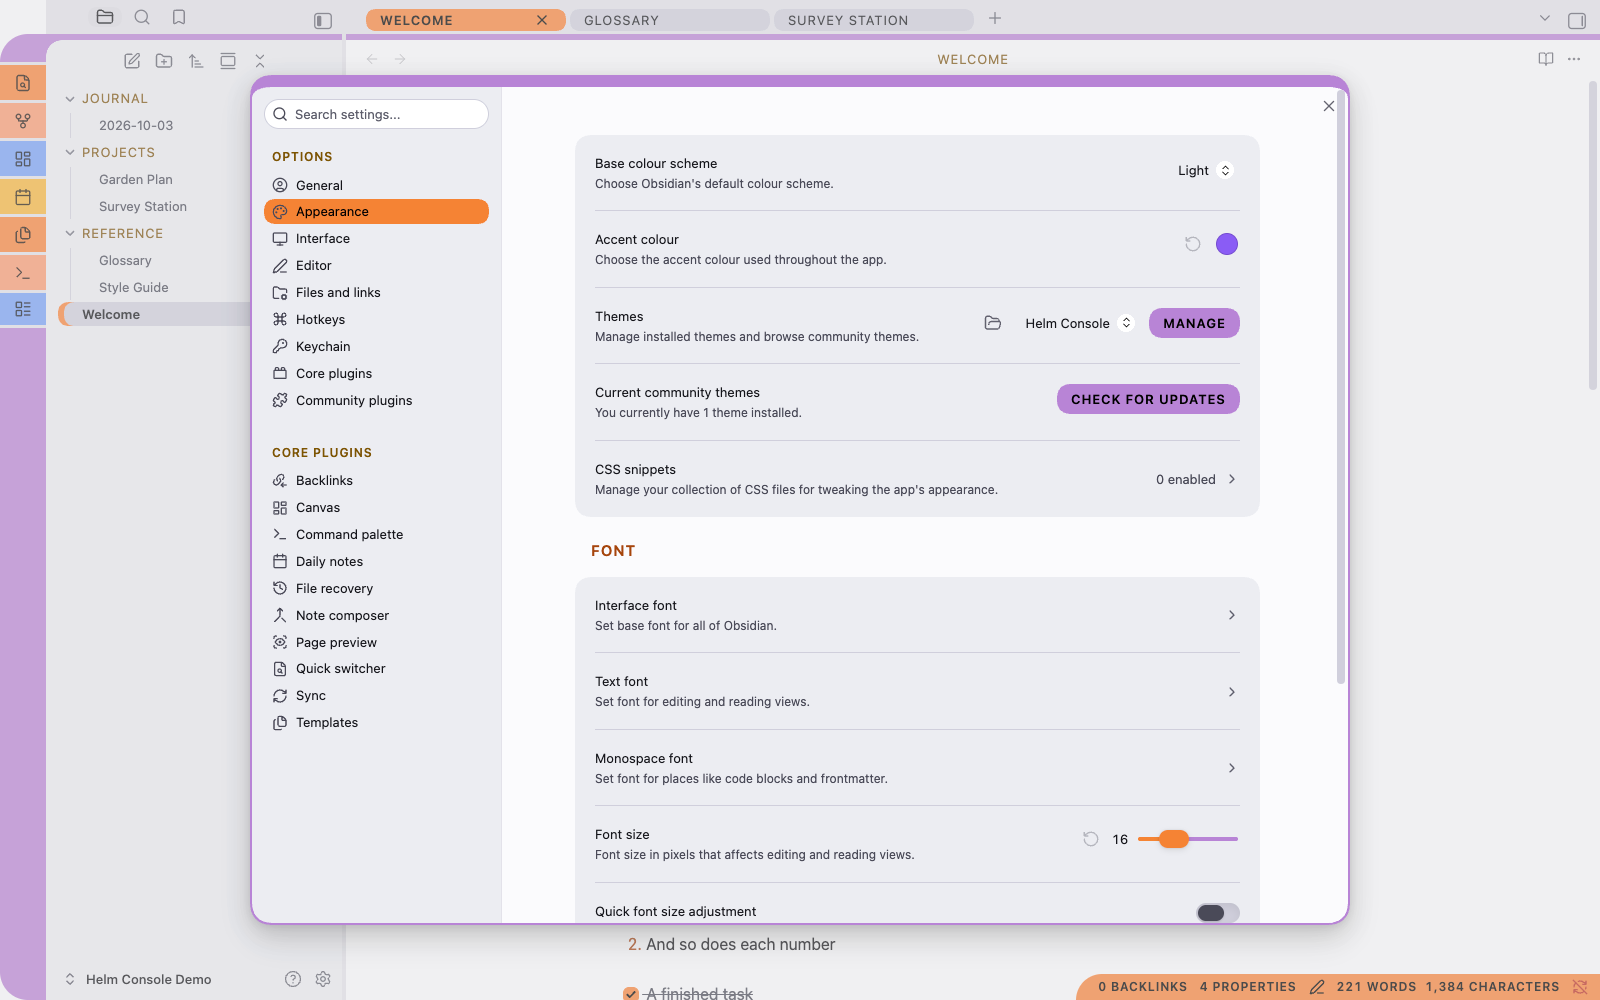
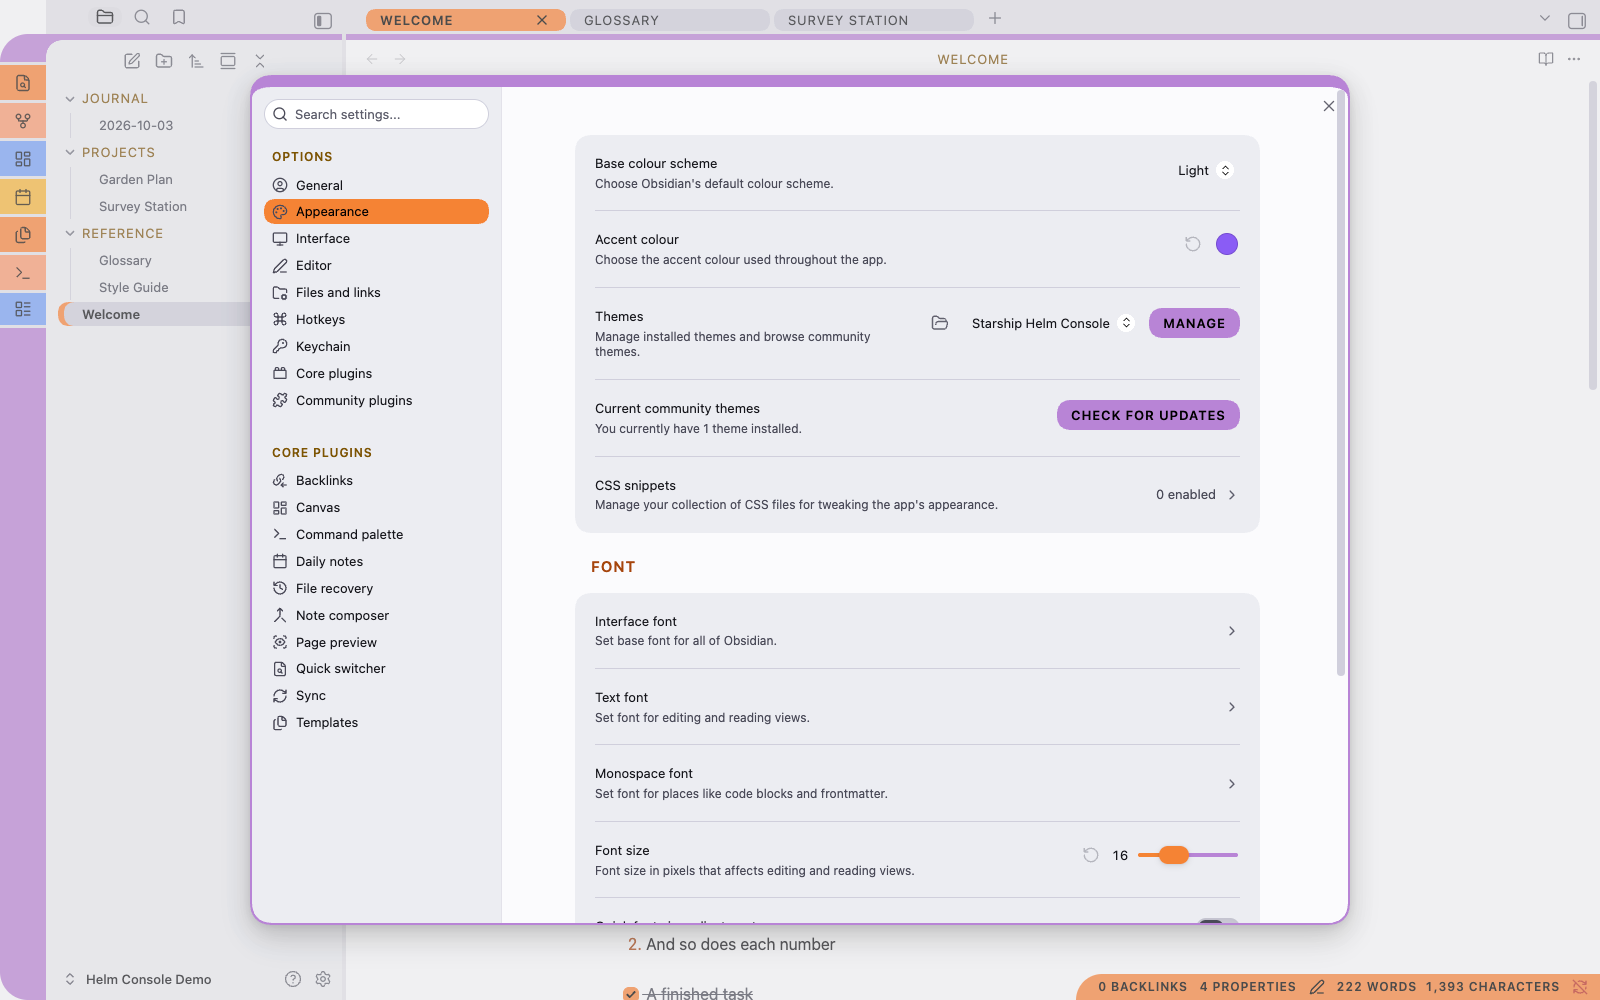
Rename the theme to Starship Helm Console (1.0.1)
manifest name, Style Settings section name (the internal id stays
helm-console, so saved switches are kept), package name, build banner,
README, User Guide, repo guide, screenshot guide, release workflow and
the screenshot script all use the new name. The demo note and every
screenshot are regenerated; the directory screenshot.png too. 'Starship'
is a generic word, and Obsidian's theme list has no name clash.

diff --git a/scripts/build.ts b/scripts/build.ts
@@ -10,7 +10,7 @@ const outputPath = join(projectRoot, "theme.css");
 const modules = readdirSync(sourceDir)
   .filter((file) => file.endsWith(".css"))
   .sort();
-const banner = "/* Helm Console for Obsidian. Generated from src/ by scripts/build.ts. Do not edit directly. */\n\n";
+const banner = "/* Starship Helm Console for Obsidian. Generated from src/ by scripts/build.ts. Do not edit directly. */\n\n";
 const css = banner + modules.map((file) => `${readFileSync(join(sourceDir, file), "utf8").trimEnd()}\n`).join("\n");
 
 if (process.argv.includes("--check")) {

diff --git a/theme.css b/theme.css
@@ -1,7 +1,7 @@
-/* Helm Console for Obsidian. Generated from src/ by scripts/build.ts. Do not edit directly. */
+/* Starship Helm Console for Obsidian. Generated from src/ by scripts/build.ts. Do not edit directly. */
 
 /* @settings
-name: Helm Console
+name: Starship Helm Console
 id: helm-console
 settings:
   -

diff --git a/src/00-settings.css b/src/00-settings.css
@@ -1,5 +1,5 @@
 /* @settings
-name: Helm Console
+name: Starship Helm Console
 id: helm-console
 settings:
   -

diff --git a/USERGUIDE.md b/USERGUIDE.md
@@ -1,6 +1,6 @@
-# Helm Console — User Guide
+# Starship Helm Console — User Guide
 
-This guide covers everything you can see and change in Helm Console, an unofficial
+This guide covers everything you can see and change in Starship Helm Console, an unofficial
 Obsidian theme inspired by LCARS, the computer interface style from *Star Trek: The Next
 Generation*. For a shorter overview, see the [README](README.md).
 
@@ -9,7 +9,7 @@ Every screenshot comes from the demo vault in
 fonts. To follow along with the same notes, open that folder as a vault (vault switcher →
 **Open folder as vault**) and install the theme into it as described in section 1.
 
-> Helm Console is an independent, unofficial, fan-made theme. It is not affiliated with,
+> Starship Helm Console is an independent, unofficial, fan-made theme. It is not affiliated with,
 > endorsed by, sponsored by, or connected to Paramount Global, CBS Studios or any other
 > rights-holder. Star Trek and related marks are trademarks of CBS Studios Inc.; LCARS is
 > a term from that franchise. Both are used here only to describe the style.
@@ -45,27 +45,27 @@ fonts. To follow along with the same notes, open that folder as a vault (vault s
    - **Windows:** in Explorer, choose **View → Show → Hidden items**.
    - **Linux:** press `Ctrl + H` in most file managers.
 4. Inside `.obsidian`, open (or create) the `themes` folder.
-5. Create a folder named exactly **`Helm Console`**: a capital H, a capital C and one
-   space. Obsidian matches the folder name to the theme's name, and any difference
-   stops the theme appearing.
+5. Create a folder named exactly **`Starship Helm Console`**: three words, each starting
+   with a capital letter, separated by single spaces. Obsidian matches the folder name to
+   the theme's name, and any difference stops the theme appearing.
 6. Put `theme.css` and `manifest.json` in that folder.
 7. In Obsidian, open **Settings → Appearance**. Under **Themes**, choose
-   **Helm Console**.
+   **Starship Helm Console**.
 
 If the theme doesn't appear in the list, close Obsidian completely and reopen it.
 
 ### From the community directory
 
-Helm Console hasn't been submitted to Obsidian's community theme directory yet. Once it
+Starship Helm Console hasn't been submitted to Obsidian's community theme directory yet. Once it
 is listed, open **Settings → Appearance → Themes → Manage**, search for
-**Helm Console** and choose **Install and use**.
+**Starship Helm Console** and choose **Install and use**.
 
 ### Updating
 
 Replace both files with their new versions. Obsidian reads a theme once and doesn't
 notice when its file changes, so after updating either:
 
-- switch to another theme in **Settings → Appearance** and back to Helm Console, or
+- switch to another theme in **Settings → Appearance** and back to Starship Helm Console, or
 - restart Obsidian.
 
 ---
@@ -124,7 +124,7 @@ then back to **Dark**. Nothing moves; only the colours change.
 3. **The file explorer.** Folder names in gold capitals, notes in normal text, and the
    open note (**Welcome**) as a dim bar with an orange cap on its left.
 
-The **ribbon** is the column of icons at the far left of the window. Helm Console draws
+The **ribbon** is the column of icons at the far left of the window. Starship Helm Console draws
 it as a stack of coloured segments, one per icon, separated by thin gaps. The colours
 repeat in the order orange, peach, blue, gold. The buttons at the foot (help and
 settings) are violet. Icons are drawn in black on the segments, and a segment turns red
@@ -206,7 +206,7 @@ drag them.
 
 ## 4. A tour of your notes
 
-Helm Console never changes your note text. Its font is your font, and its case is your
+Starship Helm Console never changes your note text. Its font is your font, and its case is your
 case. Only the decorations around it change.
 
 The overview screenshots in [section 2](#2-choosing-dark-or-light) show the top of the
@@ -392,7 +392,7 @@ are gold, and setting headings are orange.
 3. **FONT** is a setting heading, in orange.
 4. The **font size slider** has an orange thumb, and the toggle at the bottom shows its
    off state: a dim pill with a visible knob.
-5. The **Accent colour** swatch shows Obsidian's own accent setting. Helm Console sets its
+5. The **Accent colour** swatch shows Obsidian's own accent setting. Starship Helm Console sets its
    accents itself, so changing this has no effect (see
    [Troubleshooting](#the-accent-colour-setting-does-nothing)).
 
@@ -421,7 +421,7 @@ Tooltips are peach pills with black text.
 
 ## 6. Fonts
 
-Helm Console sets **no fonts**. It always uses Obsidian's default fonts, or whatever you
+Starship Helm Console sets **no fonts**. It always uses Obsidian's default fonts, or whatever you
 choose under **Settings → Appearance → Font**:
 
 - **Interface font**: menus, tabs, sidebars, settings.
@@ -439,9 +439,9 @@ you'd like that look, install a condensed font on your computer and choose it as
 
 ## 7. Style Settings switches
 
-Helm Console works without plugins. If you install the free
+Starship Helm Console works without plugins. If you install the free
 [Style Settings](https://github.com/mgmeyers/obsidian-style-settings) plugin, open
-**Settings → Style Settings → Helm Console** for three switches:
+**Settings → Style Settings → Starship Helm Console** for three switches:
 
 ### Mixed-case interface labels
 
@@ -465,7 +465,7 @@ All three switches are off by default.
 
 ## 8. Customising with a CSS snippet
 
-Every colour and size in Helm Console is a CSS variable whose name starts with `--hc-`.
+Every colour and size in Starship Helm Console is a CSS variable whose name starts with `--hc-`.
 You can change any of them with a CSS snippet, without editing the theme. Your changes
 survive theme updates.
 
@@ -567,11 +567,11 @@ body {
 
 ## 9. Plugins
 
-Helm Console is designed to work with plugins without special support from them.
+Starship Helm Console is designed to work with plugins without special support from them.
 
 ### Plugin buttons
 
-Many plugins add buttons to their own views. Helm Console sets button colours through
+Many plugins add buttons to their own views. Starship Helm Console sets button colours through
 Obsidian's standard variables, scoped to each button, so a plugin that restyles its
 buttons with those variables still gets black labels on a coloured bar. A plugin's own
 active or selected style (an underline, say) still shows, because the theme's button
@@ -580,7 +580,7 @@ rule is deliberately low in priority.
 ### File-colour plugins
 
 Plugins that colour file and folder names in the explorer set those colours directly on
-each name. Helm Console shows the open file as a dim bar with an orange cap, so the
+each name. Starship Helm Console shows the open file as a dim bar with an orange cap, so the
 plugin's colour stays readable on it.
 
 ### Style Settings
@@ -594,7 +594,7 @@ Obsidian's variables. Try this:
 
 1. Switch to Obsidian's default theme. If the plugin still looks wrong, the problem is
    in the plugin, not the theme.
-2. If it only looks wrong with Helm Console, open an issue with a screenshot and the
+2. If it only looks wrong with Starship Helm Console, open an issue with a screenshot and the
    plugin's name.
 3. In the meantime, a CSS snippet can usually fix it (see
    [Customising with a CSS snippet](#8-customising-with-a-css-snippet)).
@@ -627,7 +627,7 @@ Obsidian's variables. Try this:
 
 ## 11. Printing and PDF export
 
-When you print a note or export it as a PDF, Helm Console drops its screen styling: the
+When you print a note or export it as a PDF, Starship Helm Console drops its screen styling: the
 page is white, all text and headings are black, links are black, and the heading caps are
 removed. Code keeps a pale grey background. Your printed notes look like an ordinary
 document, not a screenshot of the console.
@@ -638,7 +638,7 @@ document, not a screenshot of the console.
 
 ### The theme doesn't appear in Settings → Appearance
 
-- Check the folder name is exactly `Helm Console`, with the same capitals and one space.
+- Check the folder name is exactly `Starship Helm Console`, with the same capitals and single spaces.
 - Check the folder contains both `theme.css` and `manifest.json`, not a subfolder holding
   them.
 - Check the folder is inside `.obsidian/themes/` in the vault you have open.
@@ -651,7 +651,7 @@ or restart Obsidian.
 
 ### My fonts look different from the screenshots
 
-Helm Console uses your own font settings. Check **Settings → Appearance → Font**.
+Starship Helm Console uses your own font settings. Check **Settings → Appearance → Font**.
 
 ### Everything is in capitals and I don't want that
 
@@ -677,7 +677,7 @@ See [If a plugin looks wrong](#if-a-plugin-looks-wrong).
 
 ### The accent colour setting does nothing
 
-Helm Console sets its own accent colours (orange, gold and the other bars), so Obsidian's
+Starship Helm Console sets its own accent colours (orange, gold and the other bars), so Obsidian's
 **Accent colour** setting has no effect. To change the accent, use a snippet that sets
 `--hc-bar-orange` and `--hc-ink-orange` (see
 [Changing colours](#changing-colours)).
@@ -699,13 +699,13 @@ version (**Settings → General**).
 ## FAQ
 
 **Is this an official theme?**
-No. Helm Console is an independent, unofficial, fan-made theme. It isn't affiliated with,
+No. Starship Helm Console is an independent, unofficial, fan-made theme. It isn't affiliated with,
 endorsed by, sponsored by, or connected to Paramount Global, CBS Studios or any other
 rights-holder.
 
 **What is it inspired by?**
 LCARS, the computer interface style seen on screen in *Star Trek: The Next Generation*:
-flat coloured bars, rounded end caps and curved joins between panels. Helm Console
+flat coloured bars, rounded end caps and curved joins between panels. Starship Helm Console
 recreates the general style in original CSS. It copies no graphics from the show.
 
 **Why isn't it called LCARS?**
@@ -741,11 +741,11 @@ expensive visual effects such as blurs or animated backgrounds.
 ## 14. Uninstalling
 
 1. Open **Settings → Appearance** and choose another theme, or **Default**.
-2. Optionally, delete the `.obsidian/themes/Helm Console/` folder.
-3. If you made a snippet for Helm Console, turn it off or delete it under
+2. Optionally, delete the `.obsidian/themes/Starship Helm Console/` folder.
+3. If you made a snippet for Starship Helm Console, turn it off or delete it under
    **Settings → Appearance → CSS snippets**.
 
-Helm Console stores no settings of its own. Style Settings keeps its switch positions in
+Starship Helm Console stores no settings of its own. Style Settings keeps its switch positions in
 its own settings until you reset them there.
 
 ---

diff --git a/README.md b/README.md
@@ -1,4 +1,4 @@
-# Helm Console
+# Starship Helm Console
 
 **An unofficial theme for Obsidian inspired by LCARS, the computer interface style from
 *Star Trek: The Next Generation*. Not affiliated with or endorsed by Paramount Global or
@@ -41,7 +41,7 @@ clean, cool light mode alongside.
 
 ## What this is
 
-Helm Console is an Obsidian theme in the LCARS idiom, built from one idea: draw the
+Starship Helm Console is an Obsidian theme in the LCARS idiom, built from one idea: draw the
 interface as **flat coloured bars**.
 
 The style comes from LCARS, the panelled computer interface seen on screen in
@@ -76,7 +76,7 @@ because the theme sets none.
 ### The workspace
 
 <p align="center">
-  <img src="docs/images/01-overview-dark.png" alt="Helm Console in dark mode: the segmented ribbon, file explorer, pill tabs and a note with heading caps" width="900">
+  <img src="docs/images/01-overview-dark.png" alt="Starship Helm Console in dark mode: the segmented ribbon, file explorer, pill tabs and a note with heading caps" width="900">
 </p>
 
 <p align="center"><em><strong>Dark mode.</strong> From left to right: the segmented
@@ -86,7 +86,7 @@ active one in orange; and the note, with its orange and lavender heading caps. T
 orange status bar sits in the lower right.</em></p>
 
 <p align="center">
-  <img src="docs/images/01-overview-light.png" alt="Helm Console in light mode: the same layout on a near-white page with a light grey frame" width="900">
+  <img src="docs/images/01-overview-light.png" alt="Starship Helm Console in light mode: the same layout on a near-white page with a light grey frame" width="900">
 </p>
 
 <p align="center"><em><strong>Light mode.</strong> The same window. The page is
@@ -261,17 +261,17 @@ in both modes, at 4.5:1 for text and 3:1 for disabled controls.
 ### Manually
 
 1. Download `theme.css` and `manifest.json` from this repository.
-2. In your vault, create the folder `.obsidian/themes/Helm Console/`. The folder name
-   must be exactly `Helm Console`. The `.obsidian` folder is hidden on most systems.
+2. In your vault, create the folder `.obsidian/themes/Starship Helm Console/`. The folder name
+   must be exactly `Starship Helm Console`. The `.obsidian` folder is hidden on most systems.
 3. Put both files in that folder.
 4. In Obsidian, open **Settings → Appearance**. Under **Themes**, choose
-   **Helm Console**.
+   **Starship Helm Console**.
 5. If the theme isn't listed, close and reopen Obsidian.
 
 ### From Obsidian's community themes
 
 The theme hasn't been submitted to the directory yet. Once it's listed, open
-**Settings → Appearance → Themes → Manage**, search for **Helm Console** and choose
+**Settings → Appearance → Themes → Manage**, search for **Starship Helm Console** and choose
 **Install and use**.
 
 ### Updating
@@ -283,7 +283,7 @@ theme when its file changes, so switch to another theme and back, or restart Obs
 
 The theme needs no plugins. If you have the
 [Style Settings](https://github.com/mgmeyers/obsidian-style-settings) plugin, it adds a
-**Helm Console** section with three switches:
+**Starship Helm Console** section with three switches:
 
 | Switch | What it does |
 | --- | --- |
@@ -456,7 +456,7 @@ Issues and pull requests are welcome. Please:
 
 ### No affiliation
 
-Helm Console is an **independent, community-made theme** by a private individual. It is
+Starship Helm Console is an **independent, community-made theme** by a private individual. It is
 **not affiliated with, endorsed by, sponsored by, licensed by, or connected to** Paramount
 Global, CBS Studios, or any studio, network, production company or rights-holder of any
 television or film property. No such relationship exists or is implied.
@@ -470,7 +470,7 @@ nothing from the show.
 
 "Star Trek" and "LCARS" appear in this README and the User Guide only to describe the
 style the theme is inspired by. Neither is the theme's name, and neither appears in the
-theme itself. The theme's own name, Helm Console, is original.
+theme itself. The theme's own name, Starship Helm Console, is original.
 
 The project deliberately avoids:
 

diff --git a/AGENTS.md b/AGENTS.md
@@ -1,4 +1,4 @@
-# Helm Console — repository guide
+# Starship Helm Console — repository guide
 
 An Obsidian community theme. Plain CSS, no runtime JavaScript. The scripts and tests are
 strict TypeScript, run directly by Node 22.18+ (no compile step). The only dependencies
@@ -11,7 +11,7 @@ are dev tools.
 - `npm run typecheck` runs `tsc --noEmit` (strict, `noUncheckedIndexedAccess`, `exactOptionalPropertyTypes`).
 - `npm test` runs `node --test "tests/*.test.ts"`. It's a glob because Node 22 doesn't search a directory argument.
 - `npm run check` runs lint, typecheck, the stale-`theme.css` check and the tests. CI, the pre-commit hook and the release workflow run it. A `PostToolUse` hook in `.claude/settings.json` runs `npm run lint` after every edit Claude makes.
-- `HELM_CONSOLE_VAULT=<vault> npm run deploy` builds the theme and copies it to `<vault>/.obsidian/themes/Helm Console/`.
+- `HELM_CONSOLE_VAULT=<vault> npm run deploy` builds the theme and copies it to `<vault>/.obsidian/themes/Starship Helm Console/`.
 - `scripts/screenshots.sh` regenerates the documentation screenshots from the demo vault. See `docs/SCREENSHOTS.md`.
 
 ## Obsidian's theme guidelines (enforced; see .stylelintrc.json)
@@ -34,7 +34,7 @@ are dev tools.
 - Never edit `theme.css` by hand. Edit `src/` and rebuild.
 - Palettes (`src/02`, `src/03`) hold colours only. Structure goes in the component modules and uses `--hc-*` tokens.
 - Every new text/background pairing goes in `tests/contrast.test.ts` and must pass in both modes.
-- **Naming and IP:** the README and User Guide may say the theme is *inspired by LCARS, the interface style from Star Trek: The Next Generation*, always with the no-affiliation statement and the trademark notice ("Star Trek and related marks are trademarks of CBS Studios Inc."). Never "official", "licensed" or "the LCARS theme". The README's opening paragraph is the directory excerpt, so it carries the inspiration line and the disclaimer. Never put a franchise name, show title or in-universe term (LCARS and Star Trek included) into the theme name, manifest, CSS, package metadata or UI strings. `tests/naming.test.ts` enforces this. The theme name stays Helm Console: Obsidian's directory already lists a theme called "LCARS".
+- **Naming and IP:** the README and User Guide may say the theme is *inspired by LCARS, the interface style from Star Trek: The Next Generation*, always with the no-affiliation statement and the trademark notice ("Star Trek and related marks are trademarks of CBS Studios Inc."). Never "official", "licensed" or "the LCARS theme". The README's opening paragraph is the directory excerpt, so it carries the inspiration line and the disclaimer. Never put a franchise name, show title or in-universe term (LCARS and Star Trek included) into the theme name, manifest, CSS, package metadata or UI strings. `tests/naming.test.ts` enforces this. The theme name stays Starship Helm Console: Obsidian's directory already lists a theme called "LCARS".
 - Screenshots come only from the demo vault (`docs/Helm Console Demo`), never from a real vault.
 - `manifest.json` and `package.json` versions must match.
 - Remote `origin` pushes to both GitHub and Gitea. `github` is the fetch-only reference.

diff --git a/docs/SCREENSHOTS.md b/docs/SCREENSHOTS.md
@@ -13,7 +13,7 @@ theme styles. Taking screenshots from a real vault would publish its notes, so d
    ```
 
 2. In Obsidian, open **docs/Helm Console Demo** as a vault (vault switcher → **Open
-   folder as vault**). Its `appearance.json` already selects Helm Console.
+   folder as vault**). Its `appearance.json` already selects Starship Helm Console.
 3. Make sure **Settings → General → Command line interface** is on, so the `obsidian`
    command can reach the running app.
 4. In the demo vault, open `Welcome`, `Glossary` and `Survey Station` as tabs, with

diff --git a/docs/Helm Console Demo/Welcome.md b/docs/Helm Console Demo/Welcome.md
@@ -8,7 +8,7 @@ updated: 2026-10-03
 ---
 # Welcome to the console
 
-This vault shows every part of a note that Helm Console styles. Open it in light and dark mode to compare.
+This vault shows every part of a note that Starship Helm Console styles. Open it in light and dark mode to compare.
 
 ## Headings and text
 
